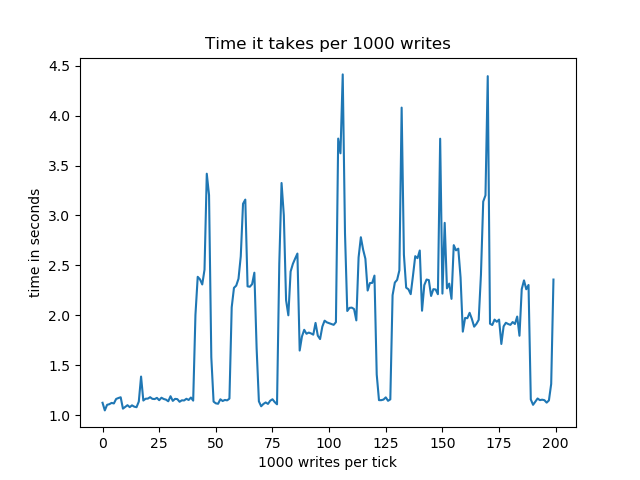
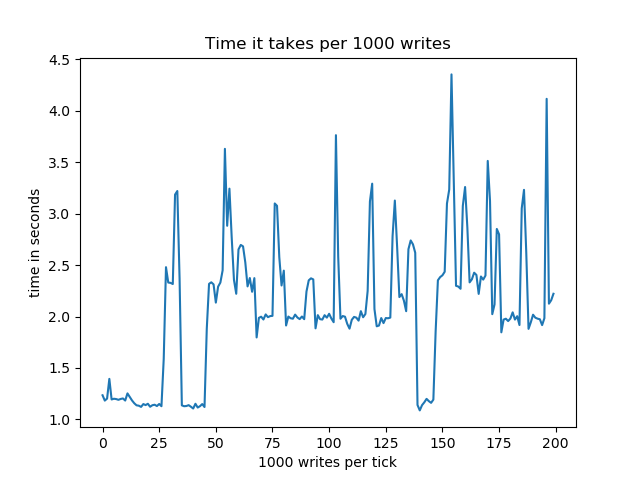
Requests for send_writes work, but a little ugly right now

diff --git a/write_cache.cc b/write_cache.cc
@@ -277,7 +277,7 @@ extern uuid_t my_uuid;
         e_io_th = std::thread(e_iocb_runner, ioctx, &e_io_running, name);
 
       char filename[] = {'/','t','m','p','/','l','s','v','d','_','n','v','m','e'};
-      nvme_w = new nvme(filename);
+      nvme_w = new nvme(filename, this);
     }
 
     write_cache::~write_cache() {
@@ -308,9 +308,10 @@ extern uuid_t my_uuid;
             assert(_w->iovs.aligned(512));
         }
 	
-        page_t blocks = div_round_up(sectors, 8);
-        char *pad_hdr = NULL;
-        page_t pad, blockno = allocate_locked(blocks+1, pad, lk);
+        blocks = div_round_up(sectors, 8);
+        char* pad_hdr = NULL;
+        page_t pad;
+        blockno = allocate_locked(blocks+1, pad, lk);
 
 	IORequest* r_pad = nvme_w->make_write_request();
 	pad_hdr = (char*)aligned_alloc(512, 4096);
@@ -384,19 +385,8 @@ extern uuid_t my_uuid;
                 }
                 return true;
         });
-	send_request * X = new  send_request(r_pad, closure, r_data, closure_data, pad);
-	//X->run(NULL);
-        if (pad != 0) {
-	    auto eio = new e_iocb;
-            e_io_prep_pwrite(eio, fd, pad_hdr, 4096, pad*4096L, call_wrapped, closure);
-            e_io_submit(ioctx, eio);
-        }
-
-	auto eio = new e_iocb;
-	assert(blockno+iovs->bytes()/4096L <= super->limit);
-	e_io_prep_pwritev(eio, fd, iovs->data(), iovs->size(), blockno*4096L,
-			  call_wrapped, closure_data);
-	e_io_submit(ioctx, eio);
+	send_request * X = new  send_request(r_pad, closure, r_data, closure_data, pad, iovs, pad_hdr);
+	X->run(NULL);
     }
 
     void write_cache::writev(size_t offset, const iovec *iov, int iovcnt, void (*cb)(void*), void *ptr) {

diff --git a/request.cc b/request.cc
@@ -31,16 +31,38 @@
 #include "io.h"
 #include "request.h"
 #include "nvme.h"
+#include "send_request.h"
+#include "translate.h"
+#include "write_cache.h"
 
-#include "request.h"
-
-IORequest::IORequest() {
+IORequest::IORequest(void* wc) {
         notified = false;
         done = false;
+	write_ptr = wc;
 }
 IORequest::~IORequest() {}
 
 void IORequest::is_done() {}
-void IORequest::run() {}
+
+void IORequest::run1(void* sr) {
+	send_request *sr_pnt = (send_request*) sr;
+	write_cache *write_c = (write_cache*) write_ptr;
+	auto eio = new e_iocb;
+	e_io_prep_pwrite(eio, write_c->fd, sr_pnt->buf, 4096, sr_pnt->pad*4096L, call_wrapped, sr_pnt->closure_pad);
+	e_io_submit(write_c->ioctx, eio);
+	sr_pnt->notify();
+}
+
+void IORequest::run2(void* sr) {
+        send_request *sr_pnt = (send_request*) sr;
+        write_cache *write_c = (write_cache*) write_ptr;
+	auto eio = new e_iocb;
+	assert(write_c->blockno+sr_pnt->iovs->bytes()/4096L <= write_c->super->limit);
+	e_io_prep_pwritev(eio, write_c->fd, sr_pnt->iovs->data(), sr_pnt->iovs->size(), write_c->blockno*4096L,
+			  call_wrapped, sr_pnt->closure_data);
+	e_io_submit(write_c->ioctx, eio);
+	sr_pnt->notify();
+}
+
 void IORequest::notify() {}
 

diff --git a/send_request.h b/send_request.h
@@ -2,39 +2,42 @@
 #define SEND_REQUEST_H
 
 class send_request {
-
+public:
 	IORequest* r_pad;
 	IORequest* r_data;
 	void* 	closure_pad;
 	void* 	closure_data;
 	page_t	pad;
+	smartiov* iovs;
+	void* 	buf;
 	std::atomic<int> reqs = 0;
-public:
 
-	send_request(IORequest* r1, void* c_pad, IORequest* r2, void* c_data, page_t p) {
+	send_request(IORequest* r1, void* c_pad, IORequest* r2, void* c_data, page_t p, smartiov* wc_iovs, void* buffer) {
 		r_pad = r1;
 		r_data = r2;
 		closure_pad = c_pad;
 		closure_data = c_data;
 		pad = p;
+		iovs = wc_iovs;
+		buf = buffer;
 	}
 	~send_request() {}
 
-	void run() {
+	void run(void* parent) {
 		reqs++;
 		if(pad) {
 			reqs++;
-			r_pad->run(this);
+			r_pad->run1(this);
 		}
-		r_data->run(this);
+		r_data->run2(this);
 	}
 
 	void notify() {
 		if(--reqs == 0) {
 			if(pad) {
-				closure_pad();
+//				closure_pad();
 			}
-			closure_data();
+//			closure_data();
 			delete this;
 		}
 	}

diff --git a/nvme.h b/nvme.h
@@ -3,16 +3,18 @@
 
 class nvme {
 	FILE *fp;
+	void *wc;
 public:
-	nvme(char* filename) {
+	nvme(char* filename,void* write_c) {
 		fp = fopen(filename, "w");
+		wc = write_c;
 	}
 	~nvme() {
 		fclose(fp);
 	};
 
 	IORequest* make_write_request(/*int offset, iovec iovecs*/void) {
-        	IORequest *wr = new IORequest;
+        	IORequest *wr = new IORequest(wc);
         	return wr;
 	}
 

diff --git a/nvme.cc b/nvme.cc
@@ -29,13 +29,17 @@
 #include "misc_cache.h"
 #include "backend.h"
 #include "io.h"
+#include "translate.h"
 #include "request.h"
 #include "nvme.h"
-
-IORequest* make_write_request(/*int offset, iovec iovecs*/void) {
+#include "write_cache.h"
+/*
+IORequest* make_write_request(int offset, iovec iovecsvoid) {
 	IORequest *wr = new IORequest;
 	return wr;
 }
+*/
+
 
 
 

diff --git a/request.h b/request.h
@@ -1,17 +1,19 @@
 #ifndef REQUEST_H
 #define REQUEST_H
 
+
 class IORequest {
 	bool notified;
 	bool done;
-
+	void *write_ptr;
 public:
 
-IORequest();
+IORequest(void* wc);
 ~IORequest();
 
 void is_done();
-void run();
+void run1(void* sr);
+void run2(void* sr);
 void notify();
 
 };
